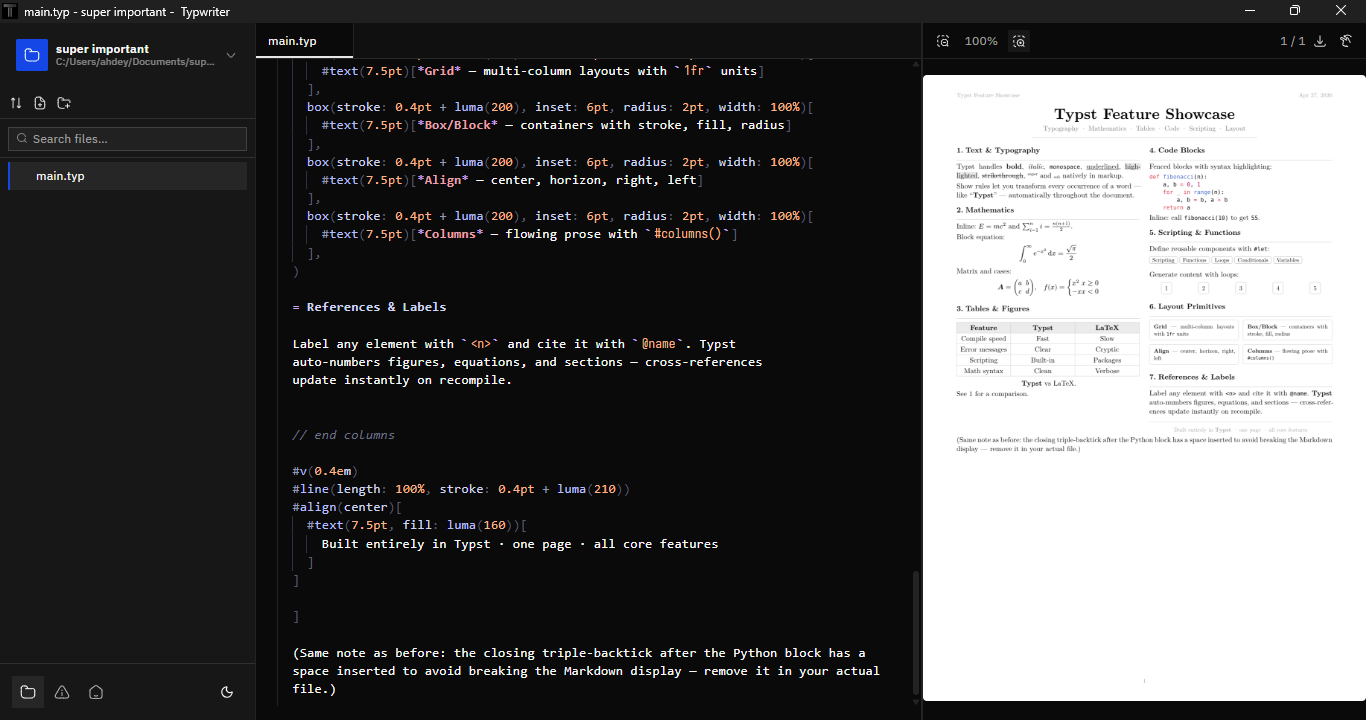
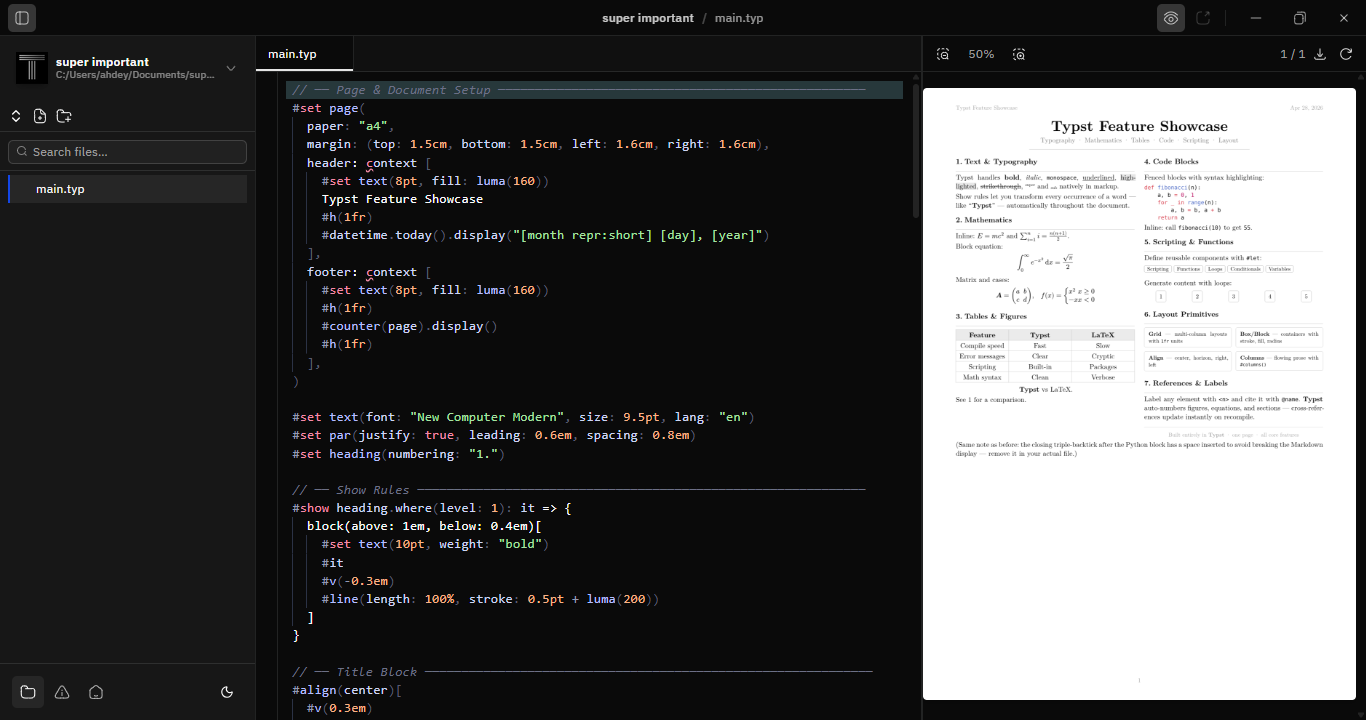
feat: updated the showcase image to fit the latest ui

diff --git a/apps/typwriter-web/src/routes/+page.svelte b/apps/typwriter-web/src/routes/+page.svelte
@@ -137,10 +137,10 @@
 			/>
 		</div>
 		<!-- Edge fades bleed beyond the image into the page background -->
-		<div class="pointer-events-none absolute inset-y-0 -left-3 w-12 bg-gradient-to-r from-background to-transparent"></div>
-		<div class="pointer-events-none absolute inset-y-0 -right-3 w-12 bg-gradient-to-l from-background to-transparent"></div>
-		<div class="pointer-events-none absolute inset-x-0 -bottom-3 h-14 bg-gradient-to-t from-background to-transparent"></div>
-		<div class="pointer-events-none absolute inset-x-0 -top-3 h-10 bg-gradient-to-b from-background to-transparent"></div>
+		<div class="pointer-events-none absolute inset-y-0 -translate-x-2 -left-3 w-12 bg-gradient-to-r from-background to-transparent"></div>
+		<div class="pointer-events-none absolute inset-y-0 translate-x-2 -right-3 w-12 bg-gradient-to-l from-background/20 to-transparent"></div>
+		<div class="pointer-events-none absolute inset-x-0 translate-y-2 -bottom-3 h-14 bg-gradient-to-t from-background to-transparent"></div>
+		<div class="pointer-events-none absolute inset-x-0 -translate-y-2 -top-3 h-10 bg-gradient-to-b from-background/20 to-transparent"></div>
 	</div>
 </section>
 